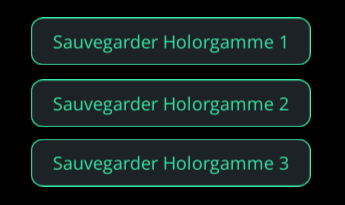
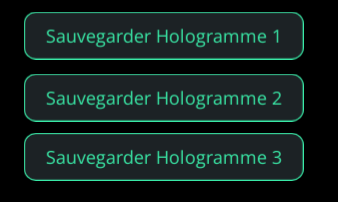
documentation update

Changed region(s): [[0.0592, 0.0594, 0.9172, 0.3267], [0.0592, 0.3564, 0.9172, 0.6238], [0.0592, 0.6535, 0.9172, 0.9208]]

diff --git a/documentation.html b/documentation.html
@@ -46,7 +46,7 @@
 									des coordonnées auront lieu à l’aide du panneau latéral, à activer avec la touche « Echap » du clavier.</p>
 								<span><img src="images/doc/i1.jpg" width="500" height="400" alt="interface"/></span>
 								<p>Voici comment l’application se présente :</p>
-								<span><img src="images/doc/i2.png" width="450" height="550" alt="panneau latéral"/></span>
+								<span><img src="images/doc/i2.png" width="500" height="550" alt="panneau latéral"/></span>
 								
 							</section>
 
@@ -57,7 +57,7 @@
 								<p>Dans le bloc <b>« Gestion de point de vue »</b>, on peut configurer la taille de l’écran sur lequel 
 									la projection aura lieu. Si l’écran, par exemple, mesure 4,5 mètres de hauteur, il faudra rentrer 
 									cette hauteur en centimètre, ici 450 centimètres.</p>
-								<span><img src="images/doc/h1.png" width="300" height="350" alt="screen height"/><img src="images/doc/h2.png" width="300" height="350" alt="screen height"/></span>
+								<span><img src="images/doc/h2.png" width="600" height="350" alt="screen height"/></span>
 							</section>
 							
 							
@@ -88,7 +88,7 @@
 
 								<p>Sauvegarde d'une scène à l’aide des boutons présents dans le bloc <b> « Gestion sauvegardes » </b> en bas du panneau latéral. 
 									Importation des scènes respectivement avec les boutons F1, F2, F3. </p>
-								<span><img src="images/doc/sauvegardebtn.png" width="350" height="200" alt="sauvegarde d'hologramme"/></span>
+								<span><img src="images/doc/sauvegardebtn.png" width="350" height="220" alt="sauvegarde d'hologramme"/></span>
 							</section>
 
 
